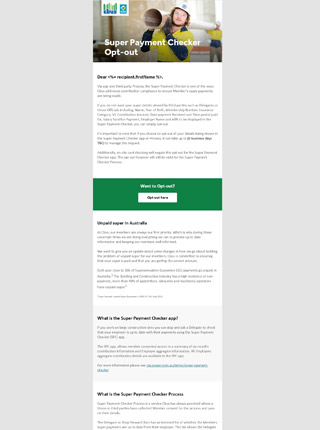
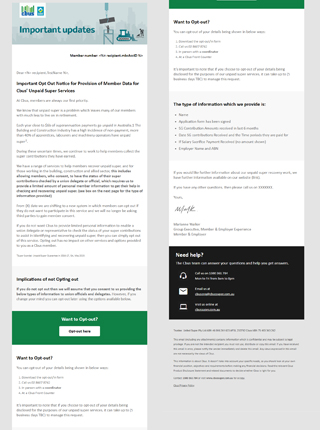
EE-653 Update TFN V2 email

diff --git a/emails/2020-04-mbr_tfn-record.html b/emails/2020-04-mbr_tfn-record.html
@@ -37,7 +37,7 @@
   
   <!--[if gte mso 9]>
   <style type="text/css">
-    .mso-inner { width: 140px; }
+    .mso-inner { width: 277px; }
   </style>
 <![endif]-->
 
@@ -74,18 +74,13 @@ body{background-color:#f8f8f8}.logo a:hover,.logo a:focus{color:#859bb1 !importa
           <div class="layout one-col fixed-width" style="Margin: 0 auto;max-width: 600px;min-width: 320px; width: 320px;width: calc(28000% - 167400px);overflow-wrap: break-word;word-wrap: break-word;word-break: break-word;">
             <div class="layout__inner" style="border-collapse: collapse;display: table;width: 100%;background-color: white;">
             <!--[if (mso)|(IE)]><table align="center" cellpadding="0" cellspacing="0" role="presentation"><tr class="layout-fixed-width" style="background-color: white;"><td style="width: 600px" class="w560"><![endif]-->
-              <div class="column" style="text-align: left;color: black;font-size: 20px;line-height: 26px;font-family: calibri,arial,sans-serif;;max-width: 600px;min-width: 320px; width: 320px;width: calc(28000% - 167400px);">
+              <div class="column" style="text-align: left;color: black;font-size: 16px;line-height: 22px;font-family: calibri,arial,sans-serif;;max-width: 600px;min-width: 320px; width: 320px;width: calc(28000% - 167400px);">
                 
                 <div style="font-size: 12px;font-style: normal;font-weight: normal;line-height: 19px;" align="center">
                     <img style="border: 0;display: block;height: auto;width: 100%;max-width: 600px;" alt="Hands up if you like paying extra tax." width="600" 
                     src="https://res.marketing.cbussuper.com.au/res/cbus_mkt_prod1/1c851c997f5af4b5fd6d4d8d59a4a0c3.jpg">
                 </div>
                 
-                <div style="Margin-left: 20px;Margin-right: 20px;Margin-top: 10px;">
-                  <div style="mso-line-height-rule: exactly;line-height: 10px;font-size: 1px;">&nbsp;</div>
-                </div>
-                
-              
                 <!-- Member number -->
               <div style="Margin-left: 20px;Margin-right: 20px;Margin-top:5px;">
                   <div style="mso-line-height-rule: exactly;mso-text-raise: 4px;">
@@ -96,7 +91,7 @@ body{background-color:#f8f8f8}.logo a:hover,.logo a:focus{color:#859bb1 !importa
                 </div>
                         
               <div style="Margin-left: 20px;Margin-right: 20px;Margin-bottom: 12px;">
-                <div style="mso-line-height-rule: exactly;line-height: 8px;font-size: 1px;">&nbsp;</div>
+                <div style="mso-line-height-rule: exactly;line-height: 24px;font-size: 1px;">&nbsp;</div>
               </div>
             
               </div>
@@ -104,120 +99,106 @@ body{background-color:#f8f8f8}.logo a:hover,.logo a:focus{color:#859bb1 !importa
             </div>
           </div>
         
-        
-        <div style="mso-line-height-rule: exactly;line-height: 20px;font-size: 20px;">&nbsp;</div>
-      
+          
 
-
-        <!-- 70/30 column -->
-        <div class="layout has-gutter stack" style="Margin: 0 auto;max-width: 600px;min-width: 320px; width: 320px;width: calc(28000% - 167400px);overflow-wrap: break-word;word-wrap: break-word;word-break: break-word;">
-          <div class="layout__inner" style="border-collapse: collapse;display: table;width: 100%;">
-          <!--[if (mso)|(IE)]><table align="center" cellpadding="0" cellspacing="0" role="presentation"><tr><td style="width: 348px" valign="top" class="w354"><![endif]-->
-            <div class="column wide" style="Float: left;max-width: 394px;min-width: 320px; width: 320px;width: calc(7400% - 44006px);">
-              <table class="column__background" style="border-collapse: collapse;table-layout: fixed;background-color: #ffffff;" cellpadding="0" cellspacing="0" width="100%" role="presentation">
-                <tbody><tr>
-                  <td style="text-align: left;color: #000;font-size: 17px;line-height: 26px;font-family: Calibri,Carlito,PT Sans,Trebuchet MS,sans-serif;">
-                  
-                    <div style="Margin-left: 20px;Margin-right: 20px;Margin-top: 12px;Margin-bottom: 12px;">
-                      <div style="mso-line-height-rule: exactly;mso-text-raise: 11px;vertical-align: middle;">
-                        <p style="Margin-top: 0;Margin-bottom: 0;text-align: left;">Dear <%= recipient.firstName %>,</p>
-                        
-                        <p style="Margin-top: 20px;Margin-bottom: 0;text-align: left;">
-                          <strong>We’ve sent you a letter to let you know that we don’t have a record of your Tax File Number (TFN).</strong>
-                        </p>
-                        <p style="Margin-top: 20px;Margin-bottom: 0;text-align: left;">
-                          It’s optional to provide your TFN. But if you don’t provide it to us before 30 June 2020, the Australian Taxation
-                           Office may deduct EXTRA TAX from your super savings.
-                          </p>
-                           <p style="Margin-top: 20px;Margin-bottom: 0;text-align: left;">
-                            This means your employer contributions, plus any additional salary sacrifice contributions made to your account could be taxed at the top rate of 47% (45% income tax plus 2% Medicare levy), instead of just 15%. Cbus also cannot accept any personal (after-tax) contributions that you may have made to 
-                               your account if we don’t have a record of your TFN.
-                          </p>
-                          <p style="Margin-top: 20px;Margin-bottom: 0;text-align: left;">&nbsp;</p>
-                      </div>
-                    </div>
-                                
-                  </td>
-                </tr>
-              </tbody></table>
-            </div>
-          <!--[if (mso)|(IE)]></td><td style="width: 18px"><![endif]--><div class="gutter" style="Float: left;width: 18px;">&nbsp;</div>
-            <!--[if (mso)|(IE)]></td><td style="width: 178px" valign="top" class="w148"><![endif]-->
-            <div class="column narrow" style="Float: left;max-width: 320px;min-width: 188px; width: 320px;width: calc(79388px - 13200%);">
-              <table class="column__background" style="border-collapse: collapse;table-layout: fixed;background-color: #ee1d23;" cellpadding="0" cellspacing="0" width="100%" role="presentation">
-                <tbody><tr>
-                  <td style="text-align: left;color: #000;font-size: 18px;line-height: 26px;font-family: Calibri,Carlito,PT Sans,Trebuchet MS,sans-serif;">
-                  
-                    <div style="Margin-left: 10px;Margin-right: 10px;Margin-top: 12px;">
-                       <div style="mso-line-height-rule: exactly;mso-text-raise: 11px;vertical-align: middle;">
-
-                      <p style="Margin-top: 0;Margin-bottom: 10px;font-style: normal;font-weight: normal;color: white;font-size: 23px;line-height: 28px;">
+          <div class="layout two-col fixed-width stack" style="Margin: 0 auto;max-width: 600px;min-width: 320px; width: 320px;width: calc(28000% - 167400px);overflow-wrap: break-word;word-wrap: break-word;word-break: break-word;">
+            <div class="layout__inner" style="border-collapse: collapse;display: table;width: 100%;background-color: #ffffff;">
+            <!--[if (mso)|(IE)]><table align="center" cellpadding="0" cellspacing="0" role="presentation"><tr class="layout-fixed-width" style="background-color: #ffffff;"><td style="width: 300px" valign="top" class="w260"><![endif]-->
+              <div class="column" style="text-align: left;color: #000;font-size: 16px;line-height: 22px;font-family: Calibri,Carlito,PT Sans,Trebuchet MS,sans-serif;max-width: 320px;min-width: 300px; width: 320px;width: calc(12300px - 2000%);Float: left;">
+              
+                <div style="Margin-left: 20px;Margin-right: 20px;Margin-top: 12px;Margin-bottom: 12px;">
+                  <div style="mso-line-height-rule: exactly;mso-text-raise: 11px;vertical-align: middle;">
+                    <p style="Margin-top: 0;Margin-bottom: 0;text-align: left;">Dear <%= recipient.firstName %>,</p>
+                    
+                    <p style="Margin-top: 20px;Margin-bottom: 0;text-align: left;">
+                      <strong>
+                        We’ve sent you a letter to let you know that we don’t have a record of your Tax File Number (TFN).    
+                      </strong>
+                    </p>
+                    <p style="Margin-top: 20px;Margin-bottom: 0;text-align: left;">
+                      It’s optional to provide your TFN. But if you don’t provide it to us before 30 June 2020, the Australian Taxation
+                       Office may deduct EXTRA TAX from your super savings.
+                      </p>
+                       <p style="Margin-top: 20px;Margin-bottom: 0;text-align: left;">
+                        This means your employer contributions, plus any additional salary sacrifice contributions made to your account could be taxed at the top rate of 47% (45% income tax plus 2% Medicare levy), instead of just 15%. Cbus also cannot accept any personal (after-tax) contributions that you may have made to 
+                           your account if we don’t have a record of your TFN.
+                      </p>
+                      <p style="Margin-top: 20px;Margin-bottom: 0;text-align: left;">&nbsp;</p>
+                  </div>
+                </div>
+              
+              </div>
+            <!--[if (mso)|(IE)]></td><td style="width: 300px" valign="top" class="w260"><![endif]-->
+              <div class="column" style="text-align: left;color: #000;font-size: 17px;line-height: 26px;font-family: Calibri,Carlito,PT Sans,Trebuchet MS,sans-serif;max-width: 320px;min-width: 300px; width: 320px;width: calc(12300px - 2000%);Float: left;">
+              
+                <table class="column__background" style="border-collapse: collapse;table-layout: fixed;background-color: #ee1d23;" cellpadding="0" cellspacing="0" width="100%" role="presentation">
+                  <tbody><tr>
+                    <td style="text-align: left;color: #000;font-size: 17px;line-height: 26px;font-family: Calibri,Carlito,PT Sans,Trebuchet MS,sans-serif;">
+                    
+                      
+                      <p style="Margin: 10px;font-style: normal;font-weight: normal;color: white;font-size: 23px;line-height: 28px;">
                         <span style="color:white"><strong>How to supply your TFN </strong></span>
                       </p>
 
                       <!-- inner coloured block -->
-                      <div style="Margin-left: 5px; Margin-right: 5px;">
+                      <div style="Margin: 10px;">
                         <table class="mso-inner" style="border-collapse: collapse;table-layout: fixed;background-color:white;" role="presentation">
                           <tbody>
                             <tr role="navigation">
                               <td style="padding:10px;color:black;font-family: calibri,arial,sans-serif;font-size:15px;">
-                                <p class="size-16" style="Margin-top: 16px;Margin-bottom: 0;font-size: 16px;line-height: 24px;" lang="x-size-16">
-                                  <strong>Telephone<br>1300 361 784</strong>
-                                </p>
-        
-                              <p class="size-16" style="Margin-top: 20px;Margin-bottom: 0;font-size: 16px;line-height: 24px;" lang="x-size-16">
-                                Make sure you have your member number (at the top of this email) handy, press 1 for members then follow the prompts.                                </p>
-        
-                                <p class="size-16" style="Margin-top: 20px;Margin-bottom: 0;font-size: 16px;line-height: 24px;" lang="x-size-16">
-                                  Further details can be found on our website: 
-                                  <a style="text-decoration: underline;transition: opacity 0.1s ease-in;color: #15798d;" 
-                                  href="https://www.cbussuper.com.au/super/tax-on-superannuation?utm_medium=edm&utm_source=adobe_campaign&utm_campaign=mem-dr--2004na-tfnrem"><strong>www.cbussuper.com.au/tfn</strong></a>
-                                </p>
-                    
-                                
-                                <p class="size-16" style="Margin-top: 20px;Margin-bottom: 20px;font-size: 16px;line-height: 24px;" lang="x-size-16">
-                                We look forward to hearing from you before <strong>30 June 2020</strong>.
-                               </p>
-
-                                <!--[if gte mso 9]>
-                                  <div style="Margin-left: 20px;Margin-right: 20px;Margin-bottom: 12px;">
-                                    <div style="mso-line-height-rule: exactly;line-height: 20px;font-size: 1px;">&nbsp;</div>
-                                  </div>
-                                  <td style="background: #ee1d23;color:#ee1d23;">____</td>
-                                <![endif]-->
+                              
+                                <div style="mso-line-height-rule: exactly;mso-text-raise: 11px;vertical-align: middle;">
+                                  <p class="size-18" lang="x-size-18" style="Margin-top: 16px;Margin-bottom: 0;font-size: 17px;line-height: 26px;">
+                                      <span style="color:#666"><strong>You can update your TFN in a couple of ways:</strong></span>
+                                  </p>
+                              
+                                  <p class="size-16" lang="x-size-16" style="Margin-top: 20px;Margin-bottom: 0;font-size: 16px;line-height: 24px;">
+                                      <strong>Online portal</strong>
+                                  <br>
+                                  Add my TFN via the<strong>
+                                    <a class="hover" href="https://www.cbussuper.com.au/portals/super-account/profile/personal-details/update-tfn?utm_medium=edm&utm_source=adobe_campaign&utm_campaign=emp-dr--200518-notfn" 
+                                    style="text-decoration: underline;transition: opacity 0.1s ease-in;color: #15798d;">
+                                    online portal
+                                  </a></strong>.
+                                  </p>
+                              
+                                  <p class="size-16" lang="x-size-16" style="Margin-top: 20px;Margin-bottom: 0;font-size: 16px;line-height: 24px;">
+                                      <strong>Telephone<br>
+                                    1300 361 784</strong><br>
+                                      <span style="color:#2e2e2e">Make sure you have your member number handy, <strong>press 1</strong> for members then follow the prompts.</span>
+                                  </p>
+                                  <p class="size-16" lang="x-size-16" style="Margin-top: 20px;Margin-bottom: 0;font-size: 16px;line-height: 24px;">
+                                      Further details can be found on our website: <a class="hover" href="https://www.cbussuper.com.au/portals/super-account/profile/personal-details/update-tfn?utm_medium=edm&utm_source=adobe_campaign&utm_campaign=emp-dr--200518-notfn" style="text-decoration: underline;transition: opacity 0.1s ease-in;color: #15798d;">
+                                      <strong>www.cbussuper.com.au/tfn</strong></a>
+                                  </p>
+                                  <p class="size-16" lang="x-size-16" style="Margin-top: 20px;Margin-bottom: 0;font-size: 16px;line-height: 24px;">
+                                      We look forward to hearing from you before <strong>30 June 2020</strong>.
+                                  </p>
+                              </div>
+                              
+                              <!-- spacer -->
+                                <div style="Margin-left: 20px;Margin-right: 20px;Margin-bottom: 12px;">
+                                  <div style="mso-line-height-rule: exactly;line-height: 18px;font-size: 1px;">&nbsp;</div>
+                                </div>
 
                               </td>
                             </tr>
                           </tbody>
                         </table>
                       </div>
-            
-
-                          <!-- spacer -->
-                        <div style="Margin-left: 20px;Margin-right: 20px;Margin-bottom: 12px;">
-                          <div style="mso-line-height-rule: exactly;line-height: 18px;font-size: 1px;">&nbsp;</div>
-                        </div>
-
-
-                  </div>
-                </div>
-                  
-
-                              
-                  </td>
-                </tr>
-              </tbody></table>
+                 <!-- end: inner coloured block -->
+                    
+                    </td>
+                  </tr>
+                </tbody></table>
+              
+              </div>
+            <!--[if (mso)|(IE)]></td></tr></table><![endif]-->
             </div>
-          <!--[if (mso)|(IE)]></td></tr></table><![endif]-->
           </div>
-        </div>
-       <!-- END 70/30 column -->
 
 
-
-           <div style="mso-line-height-rule: exactly;line-height: 20px;font-size: 20px;">&nbsp;</div>
-
-
+          <div style="mso-line-height-rule: exactly;line-height: 20px;font-size: 20px;">&nbsp;</div>
 
 
 <!-- Terms -->

diff --git a/emails/templates/template-snippet/profile-footer__Employer Relationship Manager.html b/emails/templates/template-snippet/profile-footer__Employer Relationship Manager.html
@@ -10,77 +10,77 @@ var relManagers = {
    "Gillian Huyskens": {
      phone: '0429 060 931', 
      email: 'gillian.huyskens@cbussuper.com.au',
-     title: 'Your Employer Relationship Manager',
+     title: 'Employer Relationship Manager',
      image: 'https://res.marketing.cbussuper.com.au/res/cbus_mkt_prod1/b5168ea470426a5c1f064b8ba2ea4b09.jpg',
    },   
 
    "Jim Docherty": {
      phone: '0438 813 629', 
      email: 'jim.docherty@cbussuper.com.au',
-     title: 'Your Business Partnership Manager',
+     title: 'Business Partnership Manager',
      image: 'https://res.marketing.cbussuper.com.au/res/cbus_mkt_prod1/f6a8674b261ee19a194aa86ed4d3de00.jpg',
    },
    
    "Belinda Tanner": {
      phone: '0475 982 258', 
      email: 'belinda.tanner@cbussuper.com.au',
-     title: 'Your Senior Employer Relationship Manager',
+     title: 'Senior Employer Relationship Manager',
      image: 'https://res.marketing.cbussuper.com.au/res/cbus_mkt_prod1/7888143ccdba3201af9599dbe0e43873.jpg',
    },
    
    "Kylie Dallas": {
      phone: '0477 363 016', 
      email: 'kylie.dallas@cbussuper.com.au',
-     title: 'Your Senior Employer Relationship Manager',
+     title: 'Senior Employer Relationship Manager',
      image: 'https://res.marketing.cbussuper.com.au/res/cbus_mkt_prod1/62239e26dc6c30a7fe8d1aefdf395e48.jpg',
    },
    
    "Martha Coro": {
      phone: '0429 166 785', 
      email: 'martha.coro@cbussuper.com.au',
-     title: 'Your Business Development Manager',
+     title: 'Business Development Manager',
      image: 'https://res.marketing.cbussuper.com.au/res/cbus_mkt_prod1/c59ba1e8dae44e28f49782b713ec8c3f.jpg',
    },
    
    "Mark Wall": {
      phone: '0455 440 167', 
      email: 'mark.wall@cbussuper.com.au',
-     title: 'Your Senior Business Partnership Manager',
+     title: 'Senior Business Partnership Manager',
      image: 'https://res.marketing.cbussuper.com.au/res/cbus_mkt_prod1/85077c646f4cf2d896f20e0eacbeb79b.jpg',
    },
    
    "Chris D'Astoli": {
      phone: '0448 066 247', 
      email: 'chris.d \'astoli@cbussuper.com.au',
-     title: 'Your Business Development Manager',
+     title: 'Business Development Manager',
      image: 'https://res.marketing.cbussuper.com.au/res/cbus_mkt_prod1/89397ab2ec331a4b37b1373e8483299d.jpg',
    },
    
    "Maria Armenio": {
      phone: '0437 481 548', 
      email: 'maria.armenio@cbussuper.com.au',
-     title: 'Your Employer Relationship Manager',
+     title: 'Employer Relationship Manager',
      image: 'https://res.marketing.cbussuper.com.au/res/cbus_mkt_prod1/d931ee9d3868236a795c43496d8b7541.jpg',
    },
    
    "Sally Caruana": {
      phone: '0410 419 604', 
      email: 'sally.caruana@cbussuper.com.au',
-     title: 'Your Senior Employer Relationship Manager',
+     title: 'Senior Employer Relationship Manager',
      image: 'https://res.marketing.cbussuper.com.au/res/cbus_mkt_prod1/2c612a5ac518231ffe0595230c782a3d.jpg',
    },
    
    "Salma Sallie": {
      phone: '0477 714 217', 
      email: 'salma.sallie@cbussuper.com.au',
-     title: 'Your Senior Employer Relationship Manager',
+     title: 'Senior Employer Relationship Manager',
      image: 'https://res.marketing.cbussuper.com.au/res/cbus_mkt_prod1/eaf2fc95273b4fb57e6460d728a81c42.jpg',
    },
    
    "Igor Zecic": {
      phone: '0457 546 842', 
      email: 'igor.zecic@cbussuper.com.au',
-     title: 'Your Senior Employer Relationship Manager',
+     title: 'Senior Employer Relationship Manager',
      image: 'https://res.marketing.cbussuper.com.au/res/cbus_mkt_prod1/2a719fce12bdcb88ab789c9551bf15b0.jpg',
    },
    
@@ -181,7 +181,7 @@ if( relMan == relManagers['Default'] )
       <div style="Margin-left: 20px;Margin-right: 20px;Margin-top: 0;Margin-bottom: 12px;">
         <div style="mso-line-height-rule: exactly;mso-text-raise: 11px;vertical-align: middle;">
           <p class="size-16" style="Margin-top: 0;Margin-bottom: 0;font-size: 16px;line-height: 19px;" lang="x-size-16">
-            <strong><%= relMan.title %></strong>
+            <strong>Your <%= relMan.title %></strong>
           </p>
           <p class="size-19" style="Margin-top: 0;Margin-bottom: 0px;font-size: 19px;line-height: 19px;" lang="x-size-19">
             <strong><span style="color:#1DA9C4"><%= recipient.accMgrName %></span></strong>
